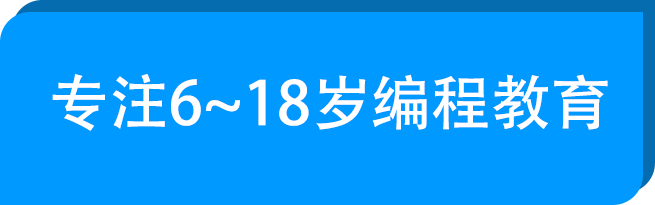
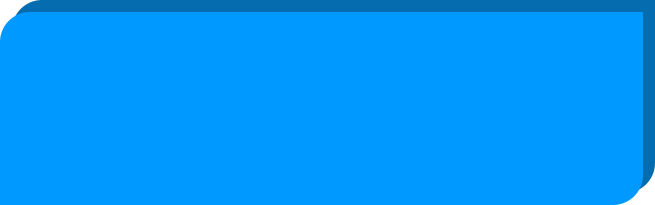
suspension menu

Changed region(s): [[0.3664, 0.3512, 0.9466, 0.6439], [0.0611, 0.3512, 0.3664, 0.6439]]

diff --git a/src/app/pages/index/index.component.scss b/src/app/pages/index/index.component.scss
@@ -14,6 +14,10 @@
   background-repeat: no-repeat;
   background-size: 100%;
   margin: 0 auto 10px auto;
+  text-align: center;
+  line-height: 43px;
+  color: #fff;
+  font-size: 12px;
 }
 
 .suspension-main-menu-1 {
@@ -23,24 +27,21 @@
   width: 106px;
   height: 33px;
   margin: 0 auto 10px auto;
-}
-
-.suspension-main-menu-2 {
-  background-image: url(src/assets/images/SuspensionMenu3.png);
-  background-repeat: no-repeat;
-  background-size: 100%;
-  width: 106px;
-  height: 33px;
-  margin: 0 auto 10px auto;
+  text-align: center;
+  line-height: 35px;
+  color: #fff;
 }
 
 .suspension-bottom-menu {
-  background-image: url(src/assets/images/SuspensionMenu4.png);
+  background-image: url(src/assets/images/SuspensionMenu3.png);
   background-repeat: no-repeat;
   background-size: 100%;
   width: 106px;
   height: 65px;
   margin: 0 auto;
+  text-align: center;
+  line-height: 35px;
+  color: #fff;
 }
 
 /*--banner--*/

diff --git a/src/app/pages/index/index.component.html b/src/app/pages/index/index.component.html
@@ -1,10 +1,10 @@
 <header></header>
 <div>
   <div class="suspension-menu">
-    <div class="suspension-top-menu"></div>
-    <div class="suspension-main-menu-1"></div>
-    <div class="suspension-main-menu-2"></div>
-    <div class="suspension-bottom-menu"></div>
+    <div class="suspension-top-menu">专注6~18岁编程教育</div>
+    <div class="suspension-main-menu-1">客服咨询</div>
+    <div class="suspension-main-menu-1">课程介绍</div>
+    <div class="suspension-bottom-menu">在线报名</div>
     <div></div>
   </div>
   <!--banner-->
